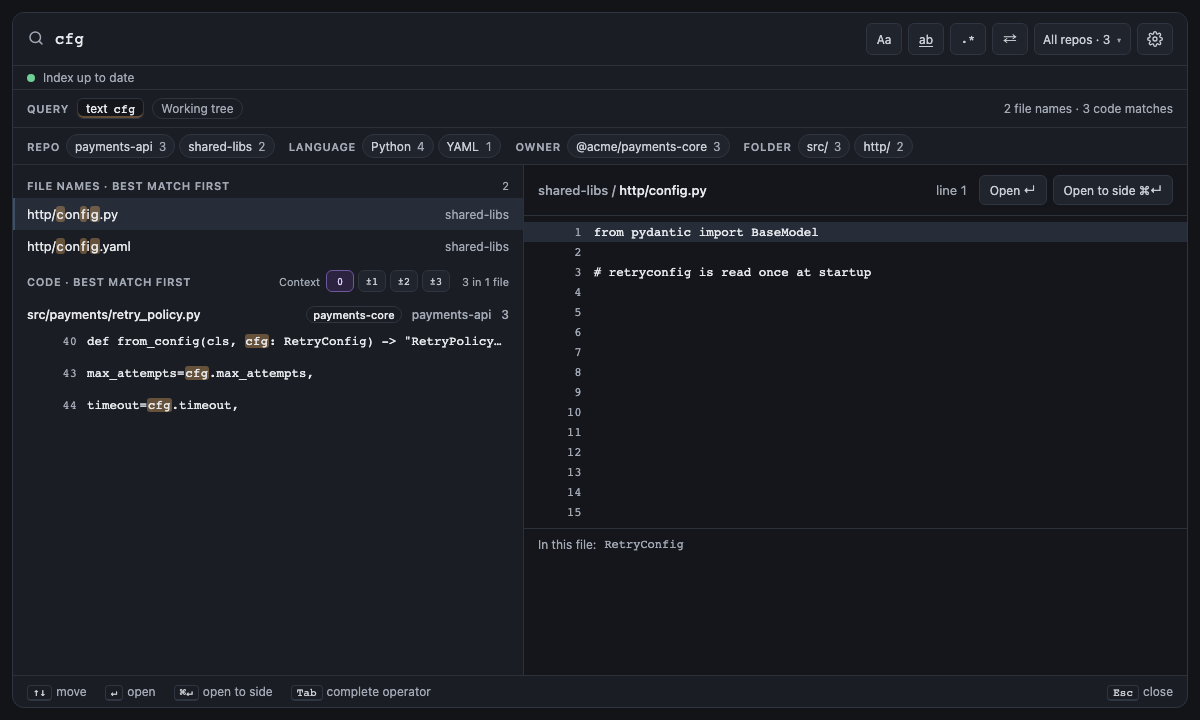
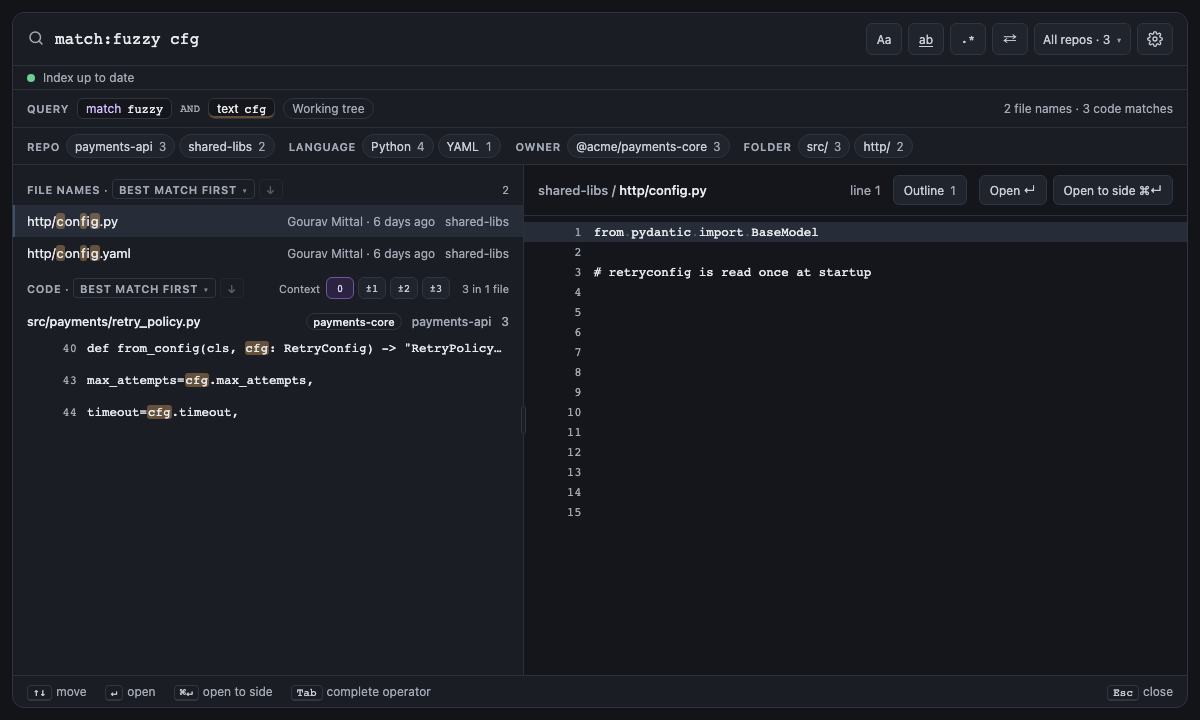
docs(dev): record mock 33's new evidence: exact words, match:fuzzy and its note

diff --git a/docs/dev/progress.md b/docs/dev/progress.md
@@ -255,7 +255,7 @@ Jason Kim and Marta Ruiz, and one uncommitted edit:
 | 30 | `retry`; `type:commit timeout author:"Jane Doe" -repo:^shared-libs$` after `type:commit timeout` | [result-facets.png](proof/result-facets.png), [result-facets-commits.png](proof/result-facets-commits.png) |
 | 31 | An empty box with a named and an unnamed pin, the second being named | [pinned-queries.png](proof/pinned-queries.png) |
 | 32 | `RetryPolicy`, replaced with `BackoffPolicy` (`--replace`) | [replace-in-files.png](proof/replace-in-files.png) |
-| 33 | `cfg` | [fuzzy-file-names.png](proof/fuzzy-file-names.png) |
+| 33 | `match:fuzzy cfg`; `cfg` | [fuzzy-file-names.png](proof/fuzzy-file-names.png), [fuzzy-file-names-note.png](proof/fuzzy-file-names-note.png) |
 | 34 | `type:added retry_policy`, over a history where one commit only removed `retry_policy` lines | [added-removed-lines.png](proof/added-removed-lines.png) |
 | 35 | `sym:retry kind:class`, `ref:RetryPolicy` | [symbol-kinds.png](proof/symbol-kinds.png), [references.png](proof/references.png) |
 | 36 | `type:code f:http/ retry` with `--setting results.contextLines=2` | [context-lines.png](proof/context-lines.png) |
@@ -636,3 +636,22 @@ revision the choice is greyed out, a typed `order:recent` is an error, and the s
   `"Light Modern"`; the menu with `--click '[data-testid="order-button"]'` and the default order), over a copy of
   `testdata/workspace` whose payments-api has a few weeks of commits and an uncommitted edit, whose web-checkout was
   committed 2 hours ago, and whose shared-libs isn't a Git repository.
+
+## Exact words, fuzzy file names on request (2.1)
+
+Mock 33 (`fuzzy-file-names`) changed: a word matches its exact text, and `match:fuzzy` (the new `match:` operator,
+`exact` or `fuzzy`) lets a bare word also find file names that have its letters in order. `spelunk.search.match` set
+to `fuzzy` makes that the default, and `match:exact` turns it off. Without fuzzy matching, the plan's `MatchFilter`
+counts what a fuzzy copy of the search would add (`Plan.MatchingFuzzy`), and the panel's note says "3 file names have
+these letters in order" with Show them, which adds `match:fuzzy` or turns `match:exact` into it.
+
+- Daemon: `daemon/internal/query/plan_test.go` (bare words fuzzy only under `match:fuzzy` or the setting, `match:exact`
+  winning; the note's undo; no note for a phrase, a whole word or a NOT) and `daemon/internal/trigram/fuzzy_test.go`
+  (the earlier fuzzy cases under `match:fuzzy`; exact by default with each note's count and undo, the setting, and
+  `match:exact` over it).
+- Host: the setting's default and fallback in `settings.test.ts`, and the help page's new example run against the real
+  daemon.
+- Panel: "exact matching's note counts the file names match:fuzzy would add, and Show them adds it" in
+  `webview/test/webview.test.mjs`; the operator sheet and help list `match:`.
+- Built: `docs/dev/proof/fuzzy-file-names.png` (`match:fuzzy cfg`) and `docs/dev/proof/fuzzy-file-names-note.png`
+  (`cfg`, exact, with the note), from `node scripts/screenshotPanel.mjs`.

diff --git a/README.md b/README.md
@@ -29,8 +29,9 @@ removed `timeout` or `retry`. Drop `author:` and the same box searches current f
   `content:retry` matches text inside files but never file names, and `since:` and `until:` take dates too:
   `since:2026-09 until:2026-09` is September. A `/regex/` with `\n` in it matches across lines of current files, and
   `struct:"backoff(:[call], tries=:[n])"` finds code by its shape, its holes taking whole arguments over lines.
-- **File names the way Quick Open finds them.** A word also finds file names that have its letters in order, so
-  `usrsvc` finds `UserService.ts`; code lines still match exactly.
+- **Exact words, and file names the way Quick Open finds them when you ask.** A word matches its exact text;
+  `match:fuzzy usrsvc` also finds file names that have its letters in order, like `UserService.ts`, and a note offers
+  them when exact matching left them out. Code lines always match exactly.
 - **Best match first.** Files that define what you searched for, are open in the editor, or are named after it come
   first; tests, vendored and generated files come last. `order:file` sorts by path instead, and `order:recent` by
   when files last changed; the order name above the results picks one too.

diff --git a/docs/dev/mocks.md b/docs/dev/mocks.md
@@ -40,7 +40,7 @@ covered.
 | 30 | Facets — counts by repo, language and folder (author and month for commits) narrow the results | `result-facets` | `Facets` | 1.1 |
 | 31 | Pinned queries: star a recent query, name it, keep it on top | `pinned-queries` | `PinnedQueries` | 1.1 |
 | 32 | Replace in current files: preview every edit, then one undoable change | `replace-in-files` | `Replace` | 1.1 |
-| 33 | Bare words find file names by their letters in order | `fuzzy-file-names` | `FuzzyNames` | 1.1 |
+| 33 | `match:fuzzy` finds file names by their letters in order; without it, a note offers them | `fuzzy-file-names` | `FuzzyNames` | 2.1 |
 | 34 | `type:added` finds the commits that added a line | `added-removed-lines` | `AddedLines` | 1.1 |
 | 35 | `kind:` keeps one kind of definition; `ref:` finds a name's uses | `symbol-kinds` | `SymbolKinds` | 1.1 |
 | 36 | Context lines: a few lines around each code match, merged when they touch | `context-lines` | `ContextLines` | 1.2 |

diff --git a/CHANGELOG.md b/CHANGELOG.md
@@ -67,6 +67,11 @@ All notable changes to this project are documented here. The format follows
 
 ### Changed
 
+- A word now matches its exact text: `RetryPolicy` no longer lists `retry_policy.py`, nor `retry` `registry.go`.
+  `match:fuzzy` brings back file names that have a word's letters in order, as Quick Open finds files
+  (`match:fuzzy usrsvc` finds `UserService.ts`), and without it a note under the results counts them, "3 file names
+  have these letters in order", with Show them. New setting `spelunk.search.match` (`exact` by default; `fuzzy` makes
+  it the default again).
 - Only `file:`, `author:`, `symbol:`, `language:` and `message:` keep a short name, and it reads: `f:`, `a:`,
   `sym:`, `lang:` and `msg:`. The other one-letter names (`s:`, `i:`, `d:`, `r:` …) and `path:` are gone; typing one
   says **Unknown search word s: (now symbol:)** and the fix changes it to the full name.
